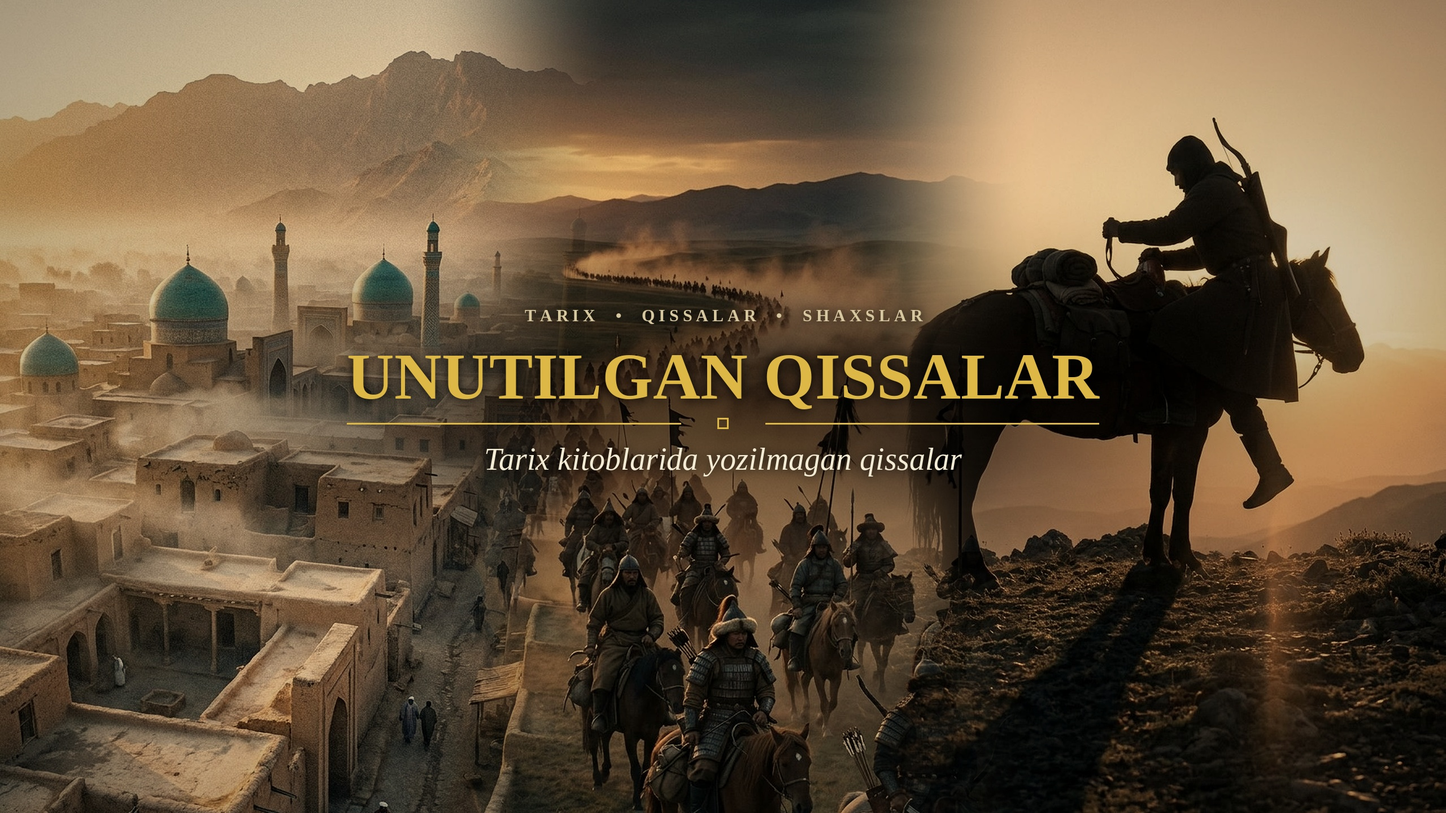
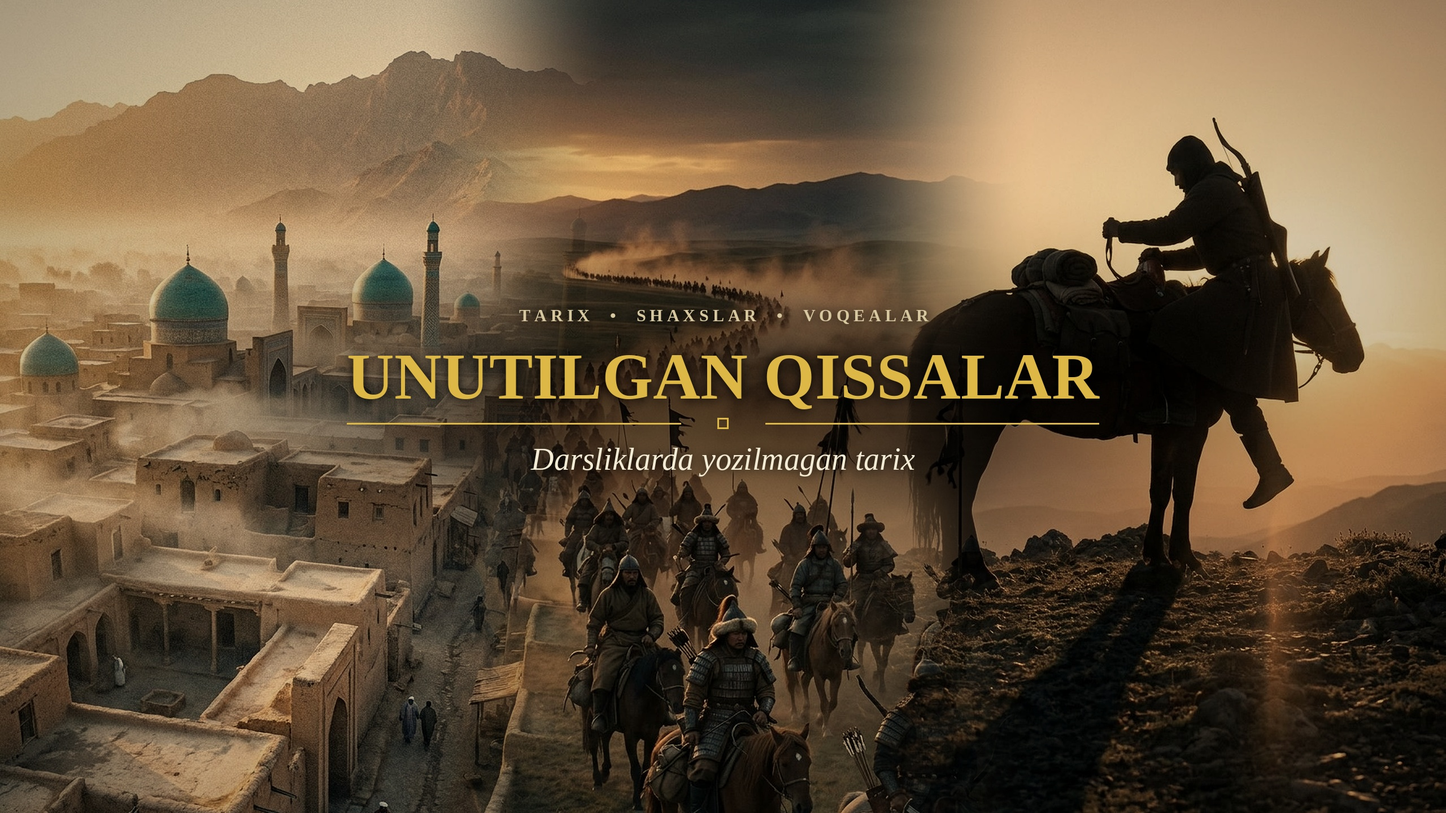
Bannerlar: 'qissalar' takrori olib tashlandi
Claude-Session: https://claude.ai/code/session_01TTDtXBeKvnXvPu5dyhKnGU

diff --git a/video/edit/youtube_banner2.py b/video/edit/youtube_banner2.py
@@ -46,13 +46,13 @@ def draw(d, shadow):
         else:
             d.text((x, y), text, font=font, fill=(0, 0, 0, 255) if shadow else fill)
         return w
-    c('TARIX  •  QISSALAR  •  SHAXSLAR', f3, cy - 178, (215, 200, 160, 255), sp=7)
+    c('TARIX  •  SHAXSLAR  •  VOQEALAR', f3, cy - 178, (215, 200, 160, 255), sp=7)
     w = c('UNUTILGAN QISSALAR', f1, cy - 118, GOLD + (255,))
     if not shadow:
         d.line(((W - w) / 2, cy + 30, (W - 150) / 2, cy + 30), fill=GOLD + (255,), width=3)
         d.line(((W + 150) / 2, cy + 30, (W + w) / 2, cy + 30), fill=GOLD + (255,), width=3)
         d.regular_polygon((W / 2, cy + 30, 13), 4, rotation=0, outline=GOLD + (255,), width=3)
-    c('Tarix kitoblarida yozilmagan qissalar', f2, cy + 62, CREAM + (255,))
+    c('Darsliklarda yozilmagan tarix', f2, cy + 62, CREAM + (255,))
 im = Image.alpha_composite(im, text_layer(draw))
 (root / 'youtube').mkdir(exist_ok=True)
 im.convert('RGB').save(root / 'youtube/banner2_2560x1440.jpg', quality=95)

diff --git a/video/edit/youtube_assets.py b/video/edit/youtube_assets.py
@@ -45,8 +45,8 @@ f1 = ImageFont.truetype(B, fs); f2 = ImageFont.truetype(I, 50); f3 = ImageFont.t
 d.text((tx, cy - 138), 'UNUTILGAN QISSALAR', font=f1, fill=GOLD)
 tw = d.textbbox((0, 0), 'UNUTILGAN QISSALAR', font=f1)[2]
 d.line((tx, cy + 5, tx + tw, cy + 5), fill=GOLD, width=3)
-d.text((tx, cy + 28), 'Tarix kitoblarida yozilmagan qissalar', font=f2, fill=CREAM)
-d.text((tx, cy + 100), 'BUYUK SHAXSLAR  •  UNUTILGAN VOQEALAR', font=f3, fill=(200, 185, 150))
+d.text((tx, cy + 28), 'Darsliklarda yozilmagan tarix', font=f2, fill=CREAM)
+d.text((tx, cy + 100), 'BUYUK SHAXSLAR  •  KATTA VOQEALAR', font=f3, fill=(200, 185, 150))
 print('text right edge', tx + tw, 'safe', W // 2 - 773, W // 2 + 773)
 img.convert('RGB').save(out / 'banner_2560x1440.png')
 # preview of the mobile-safe crop
